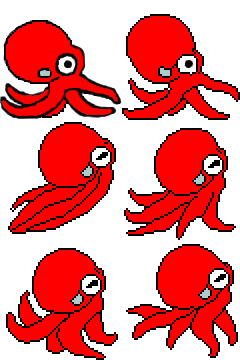
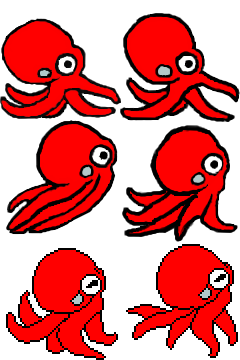
three different screens for start, playing and game over

diff --git a/game.js b/game.js
@@ -2,13 +2,23 @@ const oceanBackground = new Image();
 oceanBackground.src = './images/ocean-background.png';
 
 class Game {
-  constructor(canvas) {
+  constructor(canvas, screens) {
     this.canvas = canvas;
     this.context = canvas.getContext('2d');
     this.running = false; // to set the game over function
     this.enableControls();
-    //this.screens = screens;
+    this.screens = screens;
     //this.loop();
+  }
+
+  displayScreen(name) {
+    const screenThatShouldBeDisplayed = this.screens[name];
+    const screensThatShouldBeHidden = Object.values(this.screens).filter(
+      (screen) => screen !== screenThatShouldBeDisplayed
+    );
+    screenThatShouldBeDisplayed.style.display = '';
+    for (const screen of screensThatShouldBeHidden)
+      screen.style.display = 'none';
   }
 
   start() {
@@ -27,7 +37,9 @@ class Game {
     this.addFood();
     this.addTrash();
     this.loop();
-    this.current = (3 * Math.PI) / 4; // 135deg
+    this.displayScreen('playing');
+
+    //    this.current = (3 * Math.PI) / 4; // 135deg
   }
 
   enableControls() {
@@ -123,6 +135,7 @@ class Game {
       // if the score is below 0, the game freezes
       this.running = false;
       this.lost = true;
+      this.displayScreen('gameOver');
     }
   }
 
@@ -168,10 +181,12 @@ class Game {
       });
       this.paintScore();
     }
-    if (this.lost) {
+  }
+  /*     if (this.lost) {
       this.paintGameOver();
     }
-  }
+  } */
+  // we don't need it since we have the different screens
 
   paintBackground() {
     this.context.drawImage(oceanBackground, 0, 0, 1000, 500);

diff --git a/index.html b/index.html
@@ -11,16 +11,38 @@
       <h1>Hungry Octopus</h1>
       <button>Start Game</button>
     </div>
-    <div class="screen" id="screen-playing" style="">
-      <canvas width="1000" height="500"></canvas>
+    <div class="screen" id="screen-playing" style="display: none">
+      <div id="canvas-div">
+        <canvas width="1000" height="500"></canvas>
+      </div>
+      <!-- displays the informations about the player, the current etc.-->
+      <div id="board">
+        <h2>Game info</h2>
+        <ul>
+          <li>Score:</li>
+          <li>Points for food:</li>
+          <ul>
+            <li>Jellyfish</li>
+            <li>Crab</li>
+          </ul>
+          <li>Minus points for garbage:</li>
+          <ul>
+            <li>Plastic bottle:</li>
+            <li>FFP2 Mask:</li>
+            <li>Atomic waiste:</li>
+          </ul>
+          <li>Current:</li>
+        </ul>
+      </div>
     </div>
+
     <div class="screen" id="screen-game-over" style="display: none">
       <h3>You lost the game :(</h3>
       <button>Try Again</button>
     </div>
 
     <!-- import the splitted js logic. From the less important to the most important. -->
-    <script src="items.js"></script> 
+    <script src="items.js"></script>
     <script src="player.js"></script>
     <script src="game.js"></script>
     <script src="script.js"></script>

diff --git a/style.css b/style.css
@@ -1,18 +1,26 @@
 body {
   background-color: aqua;
-  /* display: flex; */
-  justify-content: center;
+  display: flex; 
+justify-content: center;
   align-items: center;
   margin: 0;
+  font-family: sans-serif;
 }
 
-canvas {
-  background-color: blue;
-  border: 1px solid black;
-}
+
 
 h1 {
   font-family: Arial, Helvetica, sans-serif;
   font-size: 46px;
   color: grey;
+}
+
+#screen-playing {
+  margin-top: 50px;
+  display: flex;
+  
+}
+
+#board {
+  border: 1px solid blue;
 }

diff --git a/script.js b/script.js
@@ -22,6 +22,7 @@ const tryAgainButton = screenGameOverElement.querySelector('button');
 startButton.addEventListener('click', () => {
   game.start();
 });
+// the game starts when the button is clicked
 
 tryAgainButton.addEventListener('click', () => {
   game.start();
